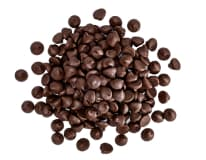
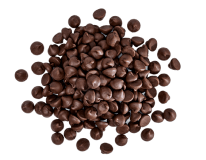
flip-card-update
1. Забрав тінь, оверфлов хіден, додав border до карти flip-card-front i -back.
2. Замінив картинку sweet-chocolate.png на іншу із прозорим фоном
3. Оптимізував неоптимізовані картинки sweet-chocolate.png

diff --git a/src/css/layout/unique-components.css b/src/css/layout/unique-components.css
@@ -1,219 +1,231 @@
 .components {
-    padding-bottom: 72px;
-    padding-top: 72px;
+  padding-bottom: 72px;
+  padding-top: 72px;
 }
 
 @media screen and (min-width: 768px) {
-    .components {
-        padding-bottom: 100px;
-        padding-top: 100px;
-    }
+  .components {
+    padding-bottom: 100px;
+    padding-top: 100px;
+  }
 }
 
 @media screen and (min-width: 1200px) {
-    .components {
-        padding-bottom: 128px;
-        padding-top: 128px;
-    }
+  .components {
+    padding-bottom: 128px;
+    padding-top: 128px;
+  }
 }
 
 .components-title {
-    margin-bottom: 24px;
-    font-size: 24px;
-    line-height: 1.17;
-    text-align: center;
-    color: #111111;
+  margin-bottom: 24px;
+  font-size: 24px;
+  line-height: 1.17;
+  text-align: center;
+  color: #111111;
 }
 
 @media screen and (min-width: 769px) {
-    .components-title {
-        margin-bottom: 28px;
-    }
+  .components-title {
+    margin-bottom: 28px;
+  }
 }
 
 .taste {
-    color: #FD9222;
+  color: #fd9222;
 }
 
 .text {
-    font-size: 14px;
-    line-height: 1.29;
-    text-align: center;
-    color: #111111;
-    margin-left: auto;
-    margin-right: auto;
-    margin-bottom: 32px;
+  font-size: 14px;
+  line-height: 1.29;
+  text-align: center;
+  color: #111111;
+  margin-left: auto;
+  margin-right: auto;
+  margin-bottom: 32px;
 }
 
 @media screen and (min-width: 769px) {
-    .text {
-        margin-bottom: 50px;
-        width: 486px;
-    }
+  .text {
+    margin-bottom: 50px;
+    width: 486px;
+  }
 }
 
 .chocolate-list {
-    display: flex;
-    flex-wrap: wrap;
-    justify-content: center;
-    gap: 20px;
-    list-style-type: none;
+  display: flex;
+  flex-wrap: wrap;
+  justify-content: center;
+  gap: 20px;
+  list-style-type: none;
 }
 
 @media screen and (min-width: 768px) {
-    .chocolate-list {
-        gap: 32px;
-        flex-flow: wrap;
-    }
+  .chocolate-list {
+    gap: 32px;
+    flex-flow: wrap;
+  }
 }
 
 @media screen and (min-width: 1200px) {
-    .chocolate-list {
-        flex-wrap: nowrap;
-        gap: 19px;
-        flex-flow: nowrap;
-    }
+  .chocolate-list {
+    flex-wrap: nowrap;
+    gap: 19px;
+    flex-flow: nowrap;
+  }
 }
 
 .chocolate {
-    color: #111111;
-    border: 1px Solid #FD9222;
-    border-radius: 15px;
-    width: 336px;
-    height: 270px;
+  color: #111111;
+  width: 336px;
+  height: 270px;
 }
 
 @media screen and (min-width: 1200px) {
-    .chocolate {
-        width: 270px;
-        height: 270px;
-    }
+  .chocolate {
+    width: 270px;
+    height: 270px;
+  }
 }
-@media screen and (min-width: 768px){
-    .zero {order: 0;}
-    .one {order: 2;}
-    .two {order: 3;}
-    .three {order: 1;}
+@media screen and (min-width: 768px) {
+  .zero {
+    order: 0;
+  }
+  .one {
+    order: 2;
+  }
+  .two {
+    order: 3;
+  }
+  .three {
+    order: 1;
+  }
 }
-@media screen and (min-width: 1200px){
-    .zero {order: 0;}
-    .one {order: 1;}
-    .two {order: 2;}
-    .three {order: 3;}
-}
-
-.orange {
-    background-color: #FD9222;
-    color: #FFFFFF;
-}
-
-.black {
-    background-color: #1E1823;
-    color: #FFFFFF;
+@media screen and (min-width: 1200px) {
+  .zero {
+    order: 0;
+  }
+  .one {
+    order: 1;
+  }
+  .two {
+    order: 2;
+  }
+  .three {
+    order: 3;
+  }
 }
 
 .flip-card {
-    background-color: transparent;
-    perspective: 1000px;
-    overflow: hidden;
+  background-color: transparent;
+  perspective: 1000px;
 }
 
 .flip-card-inner {
-    position: relative;
-    height: 270px;
-    transition: transform 0.6s;
-    transform-style: preserve-3d;
-    box-shadow: 0 4px 8px 0 rgba(0, 0, 0, 0.2);
+  position: relative;
+  height: 270px;
+  transition: transform 0.6s;
+  transform-style: preserve-3d;
 }
 
 .flip-card:hover .flip-card-inner {
-    transform: rotateY(180deg);
+  transform: rotateY(180deg);
 }
 
 .flip-card-front,
 .flip-card-back {
-    position: absolute;
-    width: 100%;
-    height: 100%;
-    -webkit-backface-visibility: hidden;
-    backface-visibility: hidden;
+  position: absolute;
+  width: 100%;
+  height: 100%;
+  -webkit-backface-visibility: hidden;
+  backface-visibility: hidden;
+  border: 1px Solid #fd9222;
 }
 
 .flip-card-front {
-    border-radius: 15px;
-    padding: 0 28px;
+  border-radius: 15px;
+  padding: 0 28px;
+}
+
+.orange {
+  background-color: #fd9222;
+  color: #ffffff;
+  border: none;
+}
+
+.black {
+  background-color: #1e1823;
+  color: #ffffff;
+  border: none;
 }
 
 .photo-chocolate {
-    margin: 0 auto;
-    margin-top: 28px;
+  margin: 0 auto;
+  margin-top: 28px;
 }
 
-
 .text-name {
-    margin-top: 36px;
-    font-size: 14px;
-    line-height: 1.29;
+  margin-top: 36px;
+  font-size: 14px;
+  line-height: 1.29;
 }
 
 .flip-card-back {
-    padding: 28px;
-    background-color: #FFFFFF;
-    color: black;
-    transform: rotateY(180deg);
-    border-radius: 15px;
-    position: absolute;
-    top: 0;
-    left: 0;
-    width: 100%;
-    height: 100%;
+  padding: 28px;
+  background-color: #ffffff;
+  color: black;
+  transform: rotateY(180deg);
+  border-radius: 15px;
+  position: absolute;
+  top: 0;
+  left: 0;
+  width: 100%;
+  height: 100%;
 }
 
 .windows-info {
-    font-size: 18px;
-    line-height: 1.22;
-    padding-bottom: 8px;
+  font-size: 18px;
+  line-height: 1.22;
+  padding-bottom: 8px;
 }
 
 .description {
-    list-style-type: none;
-    display: flex;
-    gap: 6px;
-    margin-bottom: 14px;
+  list-style-type: none;
+  display: flex;
+  gap: 6px;
+  margin-bottom: 14px;
 }
 
 .description-button {
-    padding: 6px 16px;
-    border: 1px Solid #FD9222;
-    border-radius: 35px;
-    font-size: 9px;
-    line-height: 1.2;
-    background-color: transparent;
-    transition: background-color 250ms cubic-bezier(0.4, 0, 0.2, 1),
+  padding: 6px 16px;
+  border: 1px Solid #fd9222;
+  border-radius: 35px;
+  font-size: 9px;
+  line-height: 1.2;
+  background-color: transparent;
+  transition: background-color 250ms cubic-bezier(0.4, 0, 0.2, 1),
     color 250ms cubic-bezier(0.4, 0, 0.2, 1);
 }
 
 .description-button:hover,
 .description-button:focus {
-    background-color: #FD9222;
-    color: #FFFFFF;
+  background-color: #fd9222;
+  color: #ffffff;
 }
 
 .description-text {
-    font-size: 14px;
-    line-height: 1.28;
-    height: 146px;
-    overflow: hidden;
-    display: -webkit-box;
-    -webkit-line-clamp: 8;
-    -webkit-box-orient: vertical;
+  font-size: 14px;
+  line-height: 1.28;
+  height: 146px;
+  overflow: hidden;
+  display: -webkit-box;
+  -webkit-line-clamp: 8;
+  -webkit-box-orient: vertical;
 }
 
-@media screen and (min-width: 1200px){
-    .semi-sweet{
-        height: 124px;
-        -webkit-line-clamp: 7;
-    }
+@media screen and (min-width: 1200px) {
+  .semi-sweet {
+    height: 124px;
+    -webkit-line-clamp: 7;
+  }
 }
-
-

diff --git a/src/partials/unique-components.html b/src/partials/unique-components.html
@@ -183,15 +183,15 @@
                 <source
                   media="(max-width: 1199px)"
                   srcset="
-                    /img/mobile/sweet-chocolate-mobile.png     1x,
-                    /img/mobile@2/sweet-chocolate-mobile@2.png 2x
+                    /img/mobile/sweet-chocolate-mobile.png      1x,
+                    /img/mobile@2/sweet-chocolate-mobile@2x.png 2x
                   "
                 />
                 <source
                   media="(min-width: 1200px)"
                   srcset="
-                    /img/desktop/sweet-chocolate.png            1x,
-                    /img/desktop-photos@2/sweet-chocolate@2.png 2x
+                    /img/desktop/sweet-chocolate.png             1x,
+                    /img/desktop-photos@2/sweet-chocolate@2x.png 2x
                   "
                 />
                 <img
